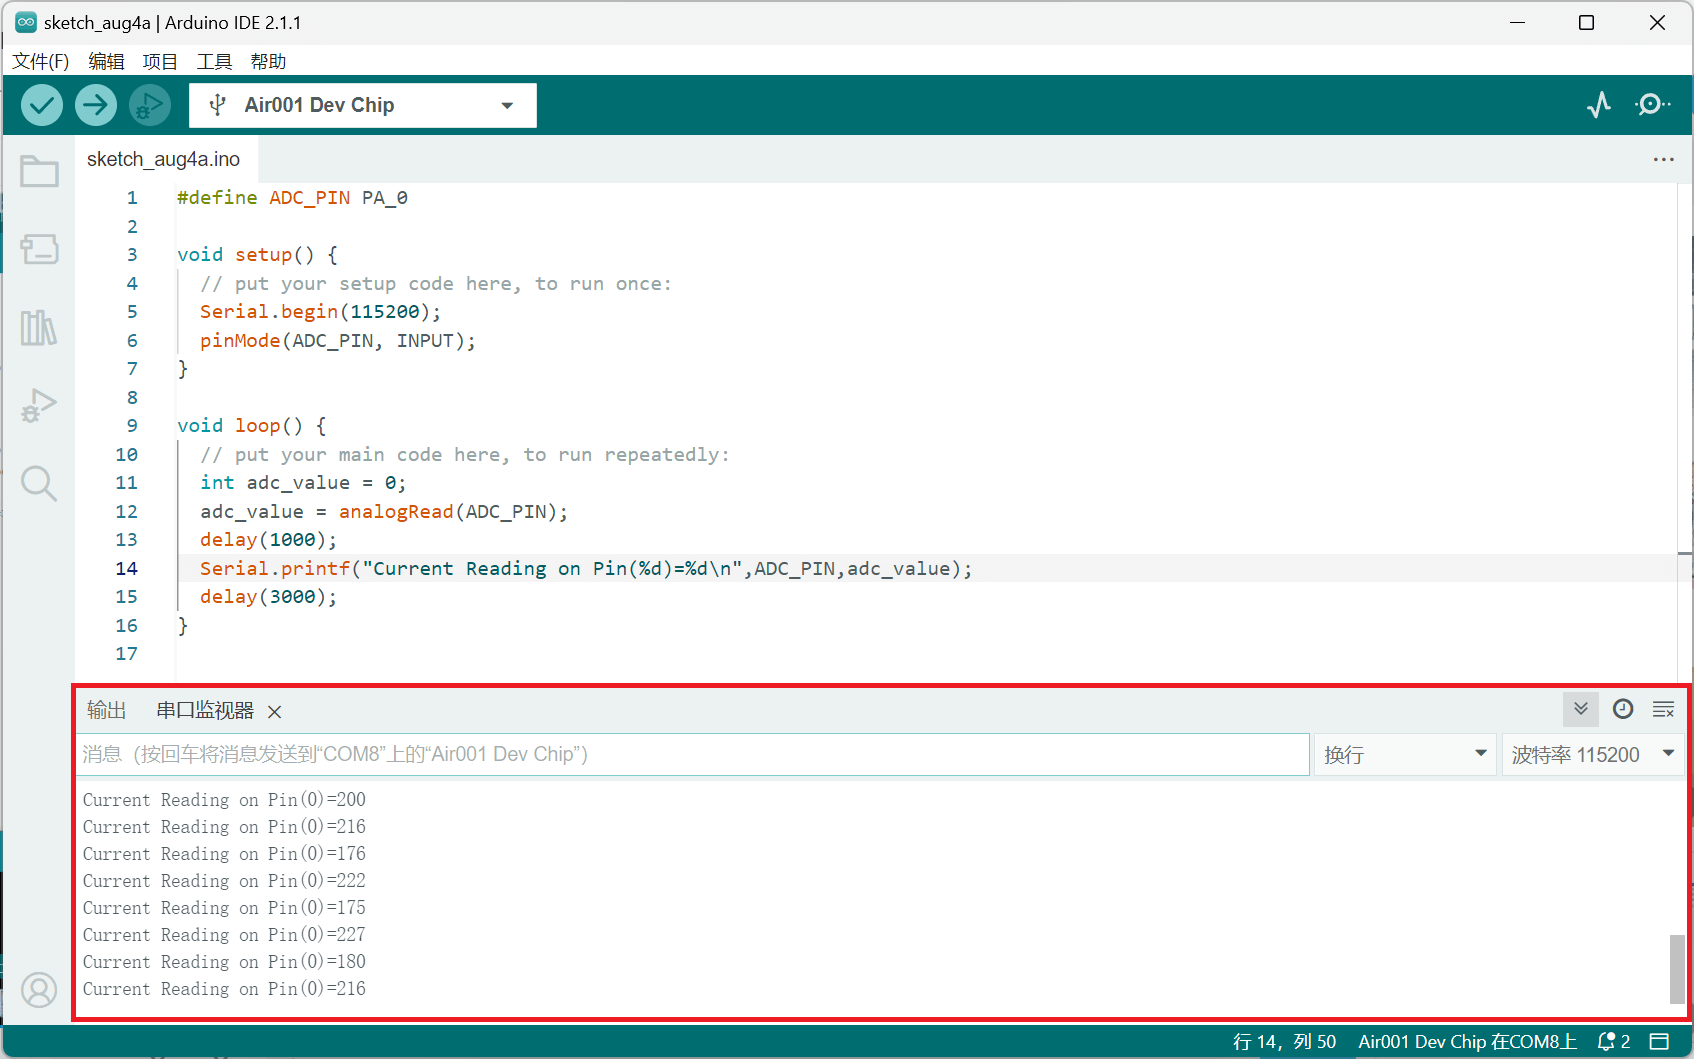
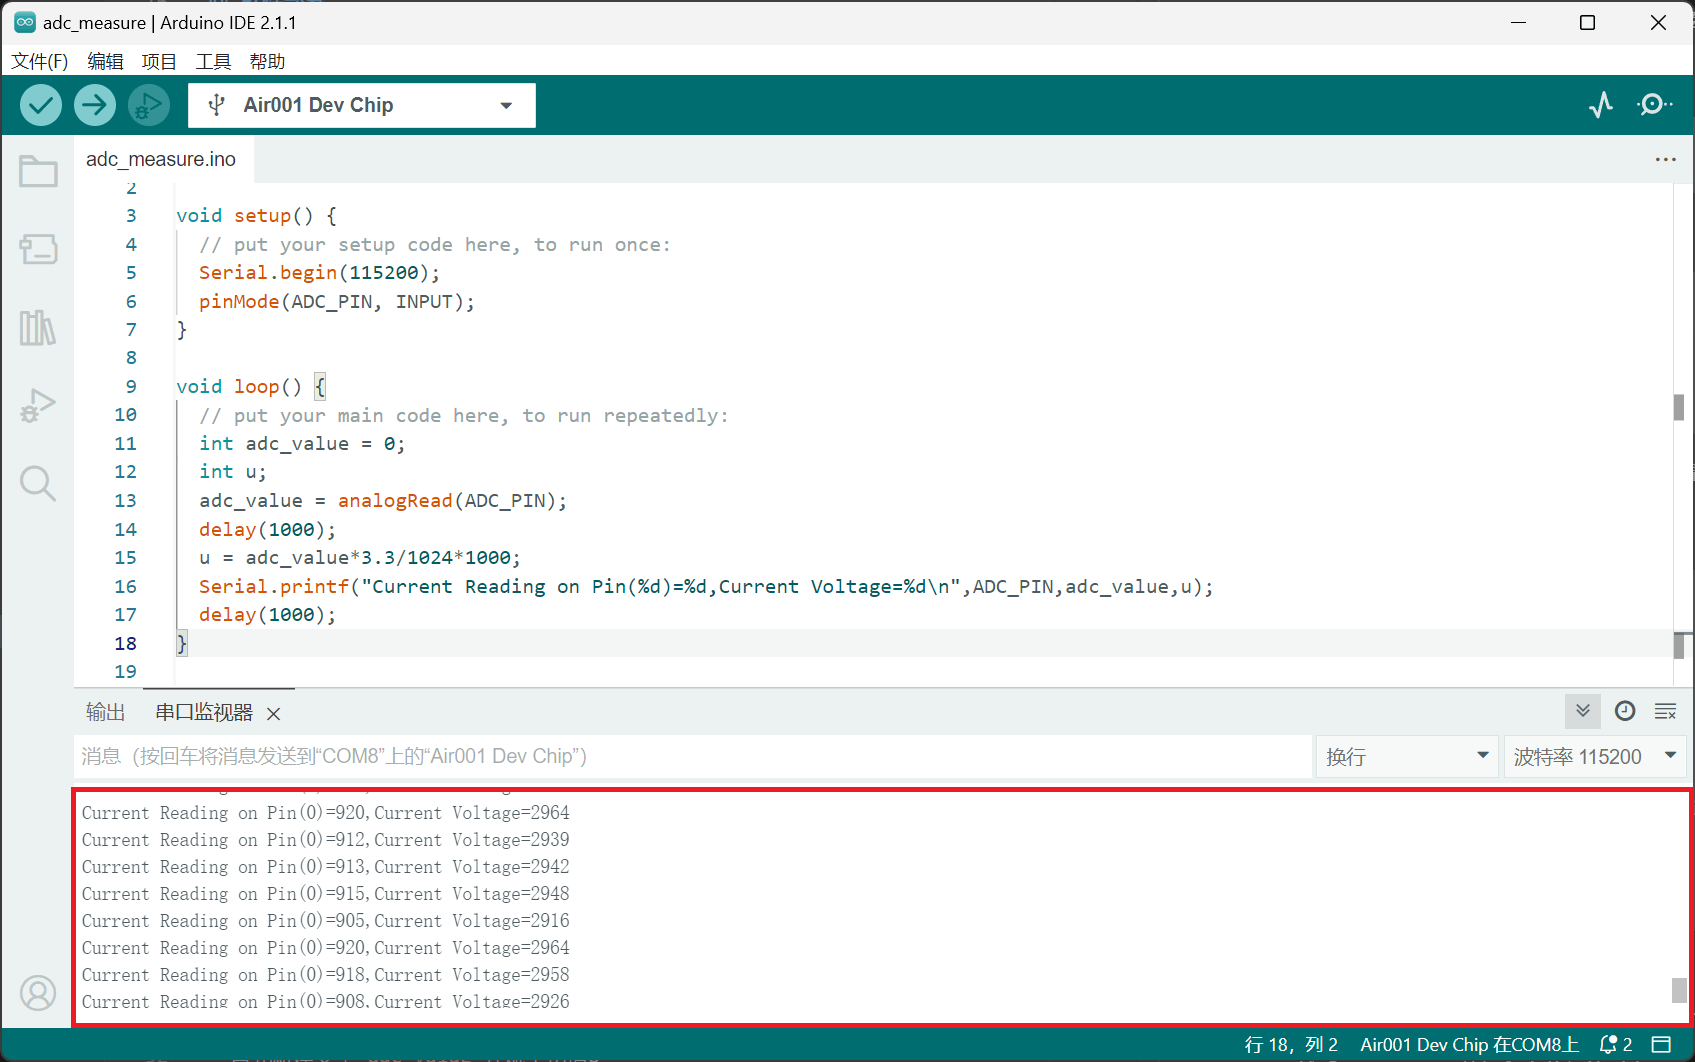
update:修改测量ADC

diff --git a/docs/tutorial-extras/adc.md b/docs/tutorial-extras/adc.md
@@ -10,7 +10,8 @@ icon: tachometer
 
 ## 硬件准备
 
-按[☁ Air001开发板入门](/tutorial-advanced/Air001_start.html)，将Air001和DAPLink调试器使用排针排母连接
+1. 按[☁ Air001开发板入门](/tutorial-advanced/Air001_start.html)，将Air001和DAPLink调试器使用排针排母连接
+2. 可控电压源，负极接Air001的GND引脚(地),正极接引脚PA_0(ADC)
 
 ## 软件部分
 
@@ -38,21 +39,33 @@ void setup() {
 ```cpp
 void loop() {
   int adc_value = 0;
+  int u;
   adc_value = analogRead(ADC_PIN);
   delay(1000);
-  Serial.printf("Current Reading on Pin(%d)=%d\n",ADC_PIN,adc_value);
+  u = adc_value*3.3/1024*1000;
+  Serial.printf("Current Reading on Pin(%d)=%d,Current Voltage=%d\n",ADC_PIN,adc_value,u);
   delay(1000);
 }
 ```
 
-- 首先新建变量`adc_value`并赋予初值0
+- 首先新建变量`adc_value`赋予初值0和`u`
 - 然后用`analogRead`函数来读取ADC引脚`PA_0`的值并赋给`adc_value`
 - 使用`delay(1000)`延时一秒
-- 然后使用`prinf`函数打印出获得的引脚`PA_0`的值`adc_value`
+- 计算实际AD的值的1000倍
+- 然后使用`prinf`函数打印出获得的引脚`PA_0`的值`adc_value`和实际AD的值`u`
 - 使用`delay(1000)`延时一秒
+
+::: tip
+
+从0V开始逐渐增大电压并在串口监视器中读出测量值，可以发现当电压增大到3.3V后继续增大电压读数达到最大值1024不再增大，
+由此可以得到一个方程: `读数 / 1024 = 实际 / 3.3`，
+即实际AD的计算公式为(单位换算为mV)
+$~~~~~~~~~~~~~~~~~~~~~~~~~~~~~~~~~~~~~~~~~~~~~~~~~~~~~~~~$`实际AD = 读数 * 3.3 / 1024 * 1000`
+
+:::
 
 ## 输出结果
 
-将波特率调为115200，在串口监视器中可观察到当前ADC的值(单位为mV)
+将波特率调为115200，在串口监视器中可观察到当前串口输出和实际AD的值(mV)
 
 ![](img/adc_res.png)
